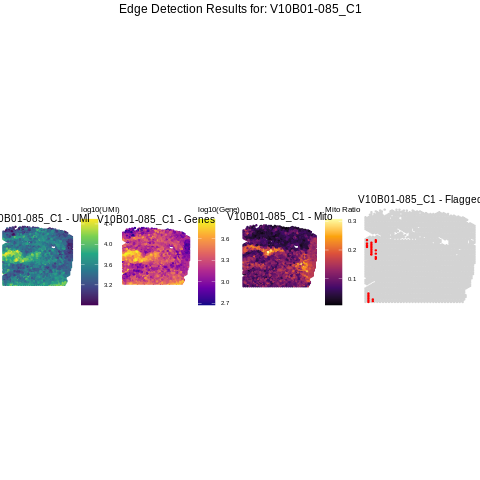
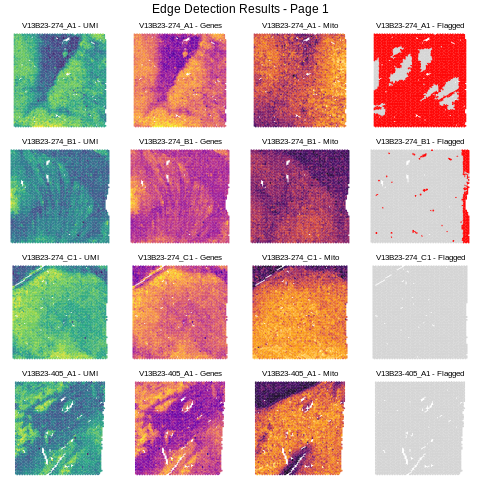
fixed bugs - coordination mapping with correct samples

diff --git a/docs/articles/hippocampus-edge-detection.html b/docs/articles/hippocampus-edge-detection.html
@@ -85,6 +85,100 @@ Data</h1>
 
     
     
+<p>Introduction The SpatialDryArtifacts R package provides a robust,
+two-step workflow to identify, classify, and handle edge dryspot
+artifacts in spatial transcriptomics data, particularly from the 10x
+Visium platform. These artifacts, often appearing as areas of low gene
+and UMI counts at tissue edges, can negatively impact downstream
+analyses. This guide explains the workflow, details the function
+parameters, interprets the output, and provides a complete practical
+example.</p>
+<p>The SpatialDryArtifacts Workflow The core philosophy is a two-step
+process: Detect, then Classify. This separates the sensitive task of
+identifying all potential problem spots from the more nuanced task of
+deciding what to do with them.</p>
+<p>Step 1: detectEdgeDryspots() — The Detection Phase Goal: To cast a
+wide net and identify all spots that could potentially be part of an
+artifact. How does it work: Outlier Identification: It first finds
+individual spots with abnormally low QC metrics (e.g., sum_gene)
+compared to other spots within the same sample or slide, using a Median
+Absolute Deviation (MAD) threshold. Morphological Cleaning: Using helper
+functions (focal_transformations), it performs image analysis techniques
+on the spatial coordinates (array_row, array_col) of these outliers.
+This intelligently fills small gaps and connects nearby outlier spots
+into contiguous regions, cleaning up noise. Cluster Detection: It
+identifies all of these contiguous outlier regions as “problem areas”
+(problemAreas helper function). Edge Identification: It specifically
+checks which of these problem areas are physically touching the outer
+border of the tissue capture area (clumpEdges helper function). Key
+Outputs: This function adds three “raw” data columns to your spe object:
+_edge, _problem_id, and _problem_size.</p>
+<p>Step 2: classifyEdgeDryspots() — The Decision Phase</p>
+<p>Goal: To take the raw detections from Step 1 and apply user-defined
+rules to assign actionable QC labels. How does it work: Input: Takes the
+spe object already processed by detectEdgeDryspots(). Rule-Based
+Classification: It evaluates each “problem area” based on parameters you
+provide, such as the minimum cluster size (min_spots) and the proportion
+of spots within it that have very low UMI counts (removal_threshold).
+Label Assignment: It assigns clear, human-readable labels to each spot,
+like “remove”. Key Outputs: This function adds the final classification
+columns that you will use for filtering: _classification and
+_enhanced.</p>
+<p>Parameter Guide Tuning parameters allows you to adapt the workflow to
+different tissue types and data quality.</p>
+<p>detectEdgeDryspots() Parameters Core Tuning Parameters mad_threshold:
+(Default: 3) Sets the sensitivity for detecting individual outlier spots
+based on the QC metric. A lower value (e.g., 1.5-2) is more sensitive
+and will flag more spots as initial outliers. edge_threshold: (Default:
+0.75) The proportion of a cluster’s boundary that must be “open” (next
+to off-tissue spots) to be considered an edge cluster. A lower value
+(e.g., 0.5) is more aggressive and will classify more clusters as being
+on the edge. min_cluster_size: (Default: 40) The minimum number of
+connected spots required to be considered a “problem area” by the
+morphological cleaning helpers. A lower value (e.g., 15-20) is more
+sensitive and will detect smaller artifacts.</p>
+<p>Advanced &amp; Data Structure Parameters qc_metric: (Default:
+“sum_gene”) The column name in colData(spe) to be used for outlier
+detection. Can be changed to “sum_umi” or another relevant metric.
+samples: (Default: “sample_id”) The column name that uniquely identifies
+each sample capture area. The function will process each sample
+independently. batch_var: (Default: “both”) Determines the batch for MAD
+outlier calculation. Can be “sample_id”, “slide”, or “both” (calculates
+outliers within each group and combines them). shifted: (Default: FALSE)
+Logical. Set to TRUE if using Visium data where odd-numbered columns
+need a coordinate shift to correctly calculate neighbors.</p>
+<p>Utility Parameters name: (Default: “edge_dryspot”) A character string
+used as the prefix for all output columns added to colData(spe).
+verbose: (Default: TRUE) If TRUE, the function will print progress
+messages to the console. keep_intermediate: (Default: FALSE) If TRUE,
+the intermediate MAD outlier columns will be kept in the final spe
+object.</p>
+<p>classifyEdgeDryspots() Parameters min_spots: (Default: 20) The
+minimum size for a problem area to be considered for the “remove” or
+“flag” categories. Clusters smaller than this are labeled “small”.
+low_umi_threshold: (Default: 100) The UMI count (sum_umi) below which a
+spot is considered “low quality” when calculating the removal_threshold.
+removal_threshold: (Default: 0.5) If the proportion of “low quality”
+spots within a problem area exceeds this value, the entire area is
+labeled “remove”. exclude_slides: (Default: NULL) An optional character
+vector of slide IDs. Any edges detected on these slides will be ignored
+during classification, which is useful if you know a particular slide’s
+edge signal is biological. name: (Default: “edge_dryspot”) Must match
+the name used in detectEdgeDryspots() to find the correct input
+columns.</p>
+<p>Understanding the output columns After running both functions,
+several columns are added to colData(spe). Here are the most important
+ones for QC: _edge: Raw Detection: Is the spot part of a cluster
+touching the tissue border? (TRUE/FALSE) _problem_id: Raw Detection: The
+ID of the problem area (if any) that this spot belongs to.
+_problem_size: Raw Detection: The size (number of spots) of the problem
+area that this spot belongs to. _classification: Final Classification:
+The action label for this spot (“remove”, “flag”, “small”, “keep”).
+_enhanced: Final Classification: A more detailed label that provides
+context about the classification _true_edges: Intermediate: The _edge
+status after applying the exclude_slides filter.</p>
+<p>Loading Data We’ll use the human hippocampus dataset from
+ExperimentHub:</p>
 <div class="sourceCode" id="cb1"><pre class="downlit sourceCode r">
 <code class="sourceCode R"><span><span class="fu">pkgload</span><span class="fu">::</span><span class="fu"><a href="https://pkgload.r-lib.org/reference/load_all.html" class="external-link">load_all</a></span><span class="op">(</span><span class="st">".."</span>, export_all <span class="op">=</span> <span class="cn">TRUE</span><span class="op">)</span></span>
 <span><span class="co">#&gt; <span style="color: #00BBBB;">ℹ</span> Loading <span style="color: #0000BB;">SpatialDryArtifacts</span></span></span>
@@ -128,13 +222,6 @@ Data</h1>
 <span><span class="co">#&gt; The following object is masked from 'package:BiocGenerics':</span></span>
 <span><span class="co">#&gt; </span></span>
 <span><span class="co">#&gt;     combine</span></span></code></pre></div>
-<p>Introduction This vignette demonstrates how to use
-SpatialDryArtifacts to detect and classify edge dryspots in spatial
-transcriptomics data using human hippocampus samples.</p>
-<p>Loading Data We’ll use the human hippocampus dataset from
-ExperimentHub:</p>
-<p>library(SpatialDryArtifacts) library(ExperimentHub) library(ggplot2)
-library(gridExtra)</p>
 <div class="sourceCode" id="cb2"><pre class="downlit sourceCode r">
 <code class="sourceCode R"><span><span class="co"># Load hippocampus data</span></span>
 <span><span class="va">eh</span> <span class="op">&lt;-</span> <span class="fu"><a href="https://rdrr.io/pkg/ExperimentHub/man/ExperimentHub-class.html" class="external-link">ExperimentHub</a></span><span class="op">(</span><span class="op">)</span></span>
@@ -163,8 +250,35 @@ over-detection:</p>
 <span><span class="op">)</span></span>
 <span><span class="co">#&gt; Detecting edges...</span></span>
 <span><span class="co">#&gt; Loading required namespace: igraph</span></span>
+<span><span class="co">#&gt;   Sample V10B01-086_D1: 9 edge spots detected</span></span>
+<span><span class="co">#&gt;   Sample V10B01-086_C1: 23 edge spots detected</span></span>
+<span><span class="co">#&gt;   Sample V11L05-333_B1: 359 edge spots detected</span></span>
+<span><span class="co">#&gt;   Sample V11L05-333_C1: 373 edge spots detected</span></span>
+<span><span class="co">#&gt;   Sample V10B01-085_B1: 89 edge spots detected</span></span>
+<span><span class="co">#&gt;   Sample V10B01-085_C1: 55 edge spots detected</span></span>
+<span><span class="co">#&gt;   Sample V10B01-086_B1: 72 edge spots detected</span></span>
+<span><span class="co">#&gt;   Sample V11L05-335_C1: 55 edge spots detected</span></span>
+<span><span class="co">#&gt;   Sample V11L05-335_B1: 3 edge spots detected</span></span>
+<span><span class="co">#&gt;   Sample V11L05-335_A1: 36 edge spots detected</span></span>
+<span><span class="co">#&gt;   Sample V11U08-084_A1: 53 edge spots detected</span></span>
+<span><span class="co">#&gt;   Sample V11U08-084_D1: 3 edge spots detected</span></span>
+<span><span class="co">#&gt;   Sample V11A20-297_C1: 5 edge spots detected</span></span>
+<span><span class="co">#&gt;   Sample V11A20-297_D1: 8 edge spots detected</span></span>
+<span><span class="co">#&gt;   Sample V11L05-335_D1: 22 edge spots detected</span></span>
+<span><span class="co">#&gt;   Sample V11A20-297_A1: 2 edge spots detected</span></span>
+<span><span class="co">#&gt;   Sample V11U08-081_B1: 16 edge spots detected</span></span>
+<span><span class="co">#&gt;   Sample V11L05-336_A1: 2 edge spots detected</span></span>
+<span><span class="co">#&gt;   Sample V11L05-336_B1: 145 edge spots detected</span></span>
+<span><span class="co">#&gt;   Sample V11L05-336_D1: 18 edge spots detected</span></span>
+<span><span class="co">#&gt;   Sample V12F14-051_C1: 15 edge spots detected</span></span>
+<span><span class="co">#&gt;   Sample V12F14-051_D1: 1 edge spots detected</span></span>
+<span><span class="co">#&gt;   Sample V12F14-051_A1: 122 edge spots detected</span></span>
+<span><span class="co">#&gt;   Sample V12F14-051_B1: 36 edge spots detected</span></span>
 <span><span class="co">#&gt; Finding problem areas...</span></span>
+<span><span class="co">#&gt; Removed intermediate columns: lg10_sum_gene, sum_gene_1.8MAD_outlier_slide, sum_gene_1.8MAD_outlier_sample, sum_gene_1.8MAD_outlier_binary</span></span>
 <span><span class="co">#&gt; Edge dryspot detection completed!</span></span>
+<span><span class="co">#&gt;   Total edge spots: 1522</span></span>
+<span><span class="co">#&gt;   Total problem area spots: 6764</span></span>
 <span></span>
 <span><span class="co"># Apply enhanced classification</span></span>
 <span><span class="va">spe_classified</span> <span class="op">&lt;-</span> <span class="fu"><a href="../reference/classifyEdgeDryspots.html">classifyEdgeDryspots</a></span><span class="op">(</span><span class="va">spe_detected</span><span class="op">)</span></span>
@@ -266,7 +380,7 @@ system:</p>
 <span><span class="fu"><a href="https://rdrr.io/r/base/print.html" class="external-link">print</a></span><span class="op">(</span><span class="va">classification_summary</span><span class="op">)</span></span>
 <span><span class="co">#&gt; </span></span>
 <span><span class="co">#&gt;  edge_dryspot          none small_cluster </span></span>
-<span><span class="co">#&gt;          1532        145405          3980</span></span>
+<span><span class="co">#&gt;          1522        145417          3978</span></span>
 <span></span>
 <span><span class="co"># Calculate percentages</span></span>
 <span><span class="va">classification_pct</span> <span class="op">&lt;-</span> <span class="fu"><a href="https://rdrr.io/r/base/Round.html" class="external-link">round</a></span><span class="op">(</span><span class="fl">100</span> <span class="op">*</span> <span class="va">classification_summary</span> <span class="op">/</span> <span class="fu"><a href="https://rdrr.io/r/base/sum.html" class="external-link">sum</a></span><span class="op">(</span><span class="va">classification_summary</span><span class="op">)</span>, <span class="fl">2</span><span class="op">)</span></span>
@@ -275,7 +389,7 @@ system:</p>
 <span><span class="fu"><a href="https://rdrr.io/r/base/print.html" class="external-link">print</a></span><span class="op">(</span><span class="va">classification_pct</span><span class="op">)</span></span>
 <span><span class="co">#&gt; </span></span>
 <span><span class="co">#&gt;  edge_dryspot          none small_cluster </span></span>
-<span><span class="co">#&gt;          1.02         96.35          2.64</span></span>
+<span><span class="co">#&gt;          1.01         96.36          2.64</span></span>
 <span></span>
 <span><span class="co"># Create summary data frame</span></span>
 <span><span class="va">summary_df</span> <span class="op">&lt;-</span> <span class="fu"><a href="https://rdrr.io/r/base/data.frame.html" class="external-link">data.frame</a></span><span class="op">(</span></span>
@@ -286,9 +400,9 @@ system:</p>
 <span></span>
 <span><span class="fu"><a href="https://rdrr.io/r/base/print.html" class="external-link">print</a></span><span class="op">(</span><span class="va">summary_df</span><span class="op">)</span></span>
 <span><span class="co">#&gt;   Classification  Count Percentage</span></span>
-<span><span class="co">#&gt; 1   edge_dryspot   1532       1.02</span></span>
-<span><span class="co">#&gt; 2           none 145405      96.35</span></span>
-<span><span class="co">#&gt; 3  small_cluster   3980       2.64</span></span>
+<span><span class="co">#&gt; 1   edge_dryspot   1522       1.01</span></span>
+<span><span class="co">#&gt; 2           none 145417      96.36</span></span>
+<span><span class="co">#&gt; 3  small_cluster   3978       2.64</span></span>
 <span></span>
 <span><span class="co"># Sample-wise summary</span></span>
 <span><span class="va">sample_summary</span> <span class="op">&lt;-</span> <span class="fu"><a href="https://rdrr.io/r/stats/aggregate.html" class="external-link">aggregate</a></span><span class="op">(</span></span>
@@ -330,11 +444,11 @@ system:</p>
 <span><span class="co">#&gt; 16 V11L05-333_D1                   0        4938                 0.00</span></span>
 <span><span class="co">#&gt; 17 V11L05-335_A1                  36        4607                 0.78</span></span>
 <span><span class="co">#&gt; 18 V11L05-335_B1                   3        4737                 0.06</span></span>
-<span><span class="co">#&gt; 19 V11L05-335_C1                  56        4887                 1.15</span></span>
+<span><span class="co">#&gt; 19 V11L05-335_C1                  55        4887                 1.13</span></span>
 <span><span class="co">#&gt; 20 V11L05-335_D1                  22        4483                 0.49</span></span>
 <span><span class="co">#&gt; 21 V11L05-336_A1                   2        4539                 0.04</span></span>
 <span><span class="co">#&gt; 22 V11L05-336_B1                 145        4193                 3.46</span></span>
-<span><span class="co">#&gt; 23 V11L05-336_C1                   7        4443                 0.16</span></span>
+<span><span class="co">#&gt; 23 V11L05-336_C1                   0        4443                 0.00</span></span>
 <span><span class="co">#&gt; 24 V11L05-336_D1                  18        4658                 0.39</span></span>
 <span><span class="co">#&gt; 25 V11U08-081_A1                   0        4609                 0.00</span></span>
 <span><span class="co">#&gt; 26 V11U08-081_B1                  16        3763                 0.43</span></span>
@@ -345,7 +459,7 @@ system:</p>
 <span><span class="co">#&gt; 31 V11U08-084_C1                   0        4986                 0.00</span></span>
 <span><span class="co">#&gt; 32 V11U08-084_D1                   3        4291                 0.07</span></span>
 <span><span class="co">#&gt; 33 V12F14-051_A1                 122        3728                 3.27</span></span>
-<span><span class="co">#&gt; 34 V12F14-051_B1                  38        3074                 1.24</span></span>
+<span><span class="co">#&gt; 34 V12F14-051_B1                  36        3074                 1.17</span></span>
 <span><span class="co">#&gt; 35 V12F14-051_C1                  15        4037                 0.37</span></span>
 <span><span class="co">#&gt; 36 V12F14-051_D1                   1        4438                 0.02</span></span></code></pre></div>
 <p>Quality Control Validation Finally, let’s validate that flagged spots
@@ -372,18 +486,18 @@ have lower quality metrics:</p>
 <span><span class="fu"><a href="https://rdrr.io/r/base/cat.html" class="external-link">cat</a></span><span class="op">(</span><span class="st">"QC Validation Results:\n"</span><span class="op">)</span></span>
 <span><span class="co">#&gt; QC Validation Results:</span></span>
 <span><span class="fu"><a href="https://rdrr.io/r/base/cat.html" class="external-link">cat</a></span><span class="op">(</span><span class="st">"Flagged spots - Median UMI:"</span>, <span class="va">flagged_umi</span>, <span class="st">"\n"</span><span class="op">)</span></span>
-<span><span class="co">#&gt; Flagged spots - Median UMI: 408.5</span></span>
+<span><span class="co">#&gt; Flagged spots - Median UMI: 408</span></span>
 <span><span class="fu"><a href="https://rdrr.io/r/base/cat.html" class="external-link">cat</a></span><span class="op">(</span><span class="st">"Non-flagged spots - Median UMI:"</span>, <span class="va">nonflagged_umi</span>, <span class="st">"\n"</span><span class="op">)</span></span>
 <span><span class="co">#&gt; Non-flagged spots - Median UMI: 2088</span></span>
 <span><span class="fu"><a href="https://rdrr.io/r/base/cat.html" class="external-link">cat</a></span><span class="op">(</span><span class="st">"UMI difference:"</span>, <span class="va">nonflagged_umi</span> <span class="op">-</span> <span class="va">flagged_umi</span>, <span class="st">"\n\n"</span><span class="op">)</span></span>
-<span><span class="co">#&gt; UMI difference: 1679.5</span></span>
+<span><span class="co">#&gt; UMI difference: 1680</span></span>
 <span></span>
 <span><span class="fu"><a href="https://rdrr.io/r/base/cat.html" class="external-link">cat</a></span><span class="op">(</span><span class="st">"Flagged spots - Median Genes:"</span>, <span class="va">flagged_gene</span>, <span class="st">"\n"</span><span class="op">)</span></span>
-<span><span class="co">#&gt; Flagged spots - Median Genes: 306</span></span>
+<span><span class="co">#&gt; Flagged spots - Median Genes: 306.5</span></span>
 <span><span class="fu"><a href="https://rdrr.io/r/base/cat.html" class="external-link">cat</a></span><span class="op">(</span><span class="st">"Non-flagged spots - Median Genes:"</span>, <span class="va">nonflagged_gene</span>, <span class="st">"\n"</span><span class="op">)</span></span>
 <span><span class="co">#&gt; Non-flagged spots - Median Genes: 1179</span></span>
 <span><span class="fu"><a href="https://rdrr.io/r/base/cat.html" class="external-link">cat</a></span><span class="op">(</span><span class="st">"Gene difference:"</span>, <span class="va">nonflagged_gene</span> <span class="op">-</span> <span class="va">flagged_gene</span>, <span class="st">"\n"</span><span class="op">)</span></span>
-<span><span class="co">#&gt; Gene difference: 873</span></span>
+<span><span class="co">#&gt; Gene difference: 872.5</span></span>
 <span></span>
 <span><span class="co"># Create validation boxplot</span></span>
 <span><span class="va">qc_data</span><span class="op">$</span><span class="va">flag_status</span> <span class="op">&lt;-</span> <span class="fu"><a href="https://rdrr.io/r/base/ifelse.html" class="external-link">ifelse</a></span><span class="op">(</span><span class="va">qc_data</span><span class="op">$</span><span class="va">flagged</span>, <span class="st">"Flagged"</span>, <span class="st">"Non-Flagged"</span><span class="op">)</span></span>
